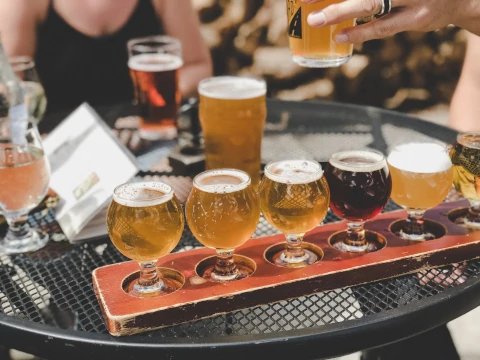
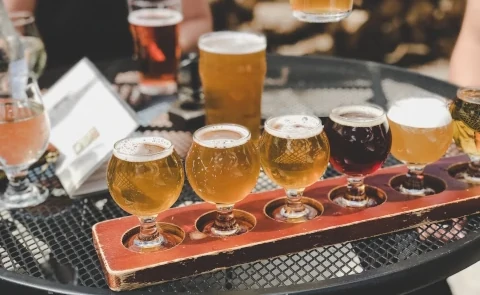
Updating photo for DoaP and adding credit.

diff --git a/src/blog/DeathOfAPhoenix.js b/src/blog/DeathOfAPhoenix.js
@@ -1,11 +1,12 @@
 import React from 'react'
+import { TatianaRodriguez } from '../components/unsplash/'
 import Typography from '@material-ui/core/Typography'
 import deathOfAPhoenix from './death-of-a-phoenix.webp'
 import deathOfAPhoenixBanner from './death-of-a-phoenix-banner.webp'
 
 const getContent = (classes) =>
   <React.Fragment>
-    <Typography paragraph><img className={ classes.blogImage } src={ deathOfAPhoenix } alt='Brewery Table'/>Dogfish Head has been one of the most influential breweries to hit the Craft Beer industry in the past twenty-five years. It has stood as a pillar of ingenuity, innovation and standing off-centered from a typical micro-brewery. And yet, almost one and a half years ago, this titan for freedom and creativity merged with the Boston Beer company, merging the two companies under one legal umbrella. Both breweries would stand separate, with each leveraging the other’s strengths: Dogfish for its innovation, Boston for its distribution; while also offsetting each other’s weaknesses. At least, that was the perception that was marketed by both companies.</Typography>
+    <Typography paragraph><div className={ classes.blogImage }><img src={ deathOfAPhoenix } alt='Brewery Table'/><TatianaRodriguez/></div>Dogfish Head has been one of the most influential breweries to hit the Craft Beer industry in the past twenty-five years. It has stood as a pillar of ingenuity, innovation and standing off-centered from a typical micro-brewery. And yet, almost one and a half years ago, this titan for freedom and creativity merged with the Boston Beer company, merging the two companies under one legal umbrella. Both breweries would stand separate, with each leveraging the other’s strengths: Dogfish for its innovation, Boston for its distribution; while also offsetting each other’s weaknesses. At least, that was the perception that was marketed by both companies.</Typography>
     <Typography paragraph>I’ve always been a huge fan of Dogfish Head ever since first trying their flagship 60 Minute Imperial Pale Ale (IPA). It wasn’t the first beer that I had ever tried, but it was one of the first IPAs that I truly enjoyed. Beer was still new to me, so it blew my uninitiated mind that a beer could be that flavorful. This was also way before I even knew the difference between a Cascade and a Centennial hop. I only slightly know the difference now. Alternatively, Sam Adams Boston Lager isn’t my first choice, but it is always a solid beer. I cannot say much about the rest of their line up as I am not as familiar with them, but I’ve never been steered wrong by any others that I have tried, like Rebel IPA.</Typography>
     <Typography paragraph>We live close enough to Dogfish Head’s location in Milton, DE that we can make a nice weekend trip out of the experience. Safe to say, we have been up there countless times to explore downtown Lewes, Milton, and Rehoboth on multiple occasions, each time, visiting and enjoying good beer, good food and good company all around. We have gotten to watch the evolution of the Brewing &amp; Eats Pub to the tri-tiered Chesapeake &amp; Maine, Beer Garden and Pub that it is today. We’ve watched the birth and success of the Dogfish Distillery line of spirits. The brewery itself has expanded dramatically since our first visits, adding multiple fermentation and bright tanks, crafting their own kitchen from Paul Bunyan’s Lunchbox Food Truck, all the while, remaining true to their beliefs and values. Family first, fun second, and success will follow. </Typography>
     <Typography paragraph>Our most recent trip to Lewes and Rehoboth was lackluster compared to the past. Granted, we are still in a pandemic, so with social distancing and reserved outdoor seating, the experience was due to be a bit different this time. No free samples with a free tour, no light-hearted excursions into the guts of the brewery itself, but still the same set of values did shine through from the staff: family first, community first. Additionally, the food was amazing as it always is. The roots from the original brew pub continue to shine through their amazing food.</Typography>
@@ -15,12 +16,12 @@ const getContent = (classes) =>
   </React.Fragment>
 
 export default {
-  title: 'Death of A Phoenix',
-  route: 'dogfish/death-of-a-phoenix',
+  title: 'Death of a Phoenix',
+  route: 'death-of-a-phoenix',
   author: 'Dustin Saunders',
   updated: '2020-11-06',
   content: getContent,
   banner: deathOfAPhoenixBanner,
-  seo: 'Thoughtful Brew Article: Death Of A Phoenix: Dogfish Head',
+  seo: 'Thoughtful Brew Article: Death Of a Phoenix',
 }
 

diff --git a/src/components/MainContentWrapper.js b/src/components/MainContentWrapper.js
@@ -2,10 +2,10 @@ import Button from '@material-ui/core/Button'
 import Grid from '@material-ui/core/Grid'
 import Hidden from '@material-ui/core/Hidden'
 import { makeStyles } from '@material-ui/core/styles'
+import { MarkusSpiske } from '../components/unsplash/'
 import Paper from '@material-ui/core/Paper'
 import React from 'react'
 import Typography from '@material-ui/core/Typography'
-import UnsplashCredit from '../components/UnsplashCredit'
 import { useHistory } from 'react-router-dom'
 import { useSelector } from 'react-redux'
 
@@ -56,7 +56,7 @@ export default (props) => {
       </Grid>
       <Hidden smDown>
         <Grid item sm={12} md={10} className={ classes.gridItem }>
-          <UnsplashCredit/>
+          <MarkusSpiske/>
         </Grid>
       </Hidden>
     </Grid>

diff --git a/src/components/unsplash/UnsplashCredit.js b/src/components/unsplash/UnsplashCredit.js
@@ -1,0 +1,20 @@
+import Link from '@material-ui/core/Link'
+import React from 'react'
+import Typography from '@material-ui/core/Typography'
+
+const UnsplashCredit = (props) => {
+  const { author, authorUrl, color, siteUrl, } = props;
+  return (
+    <Typography color={ color }>
+      Photo by <Link color='inherit' href={ authorUrl }>{ author }</Link> on <Link color='inherit' href={ siteUrl }>Unsplash</Link>
+    </Typography>
+  )
+}
+
+UnsplashCredit.defaultProps = {
+  author: '...',
+  authorUrl: 'https://unsplash.com',
+  siteUrl: 'https://unsplash.com',
+  color: 'inherit',
+}
+export default UnsplashCredit 

diff --git a/src/components/unsplash/TatianaRodriguez.js b/src/components/unsplash/TatianaRodriguez.js
@@ -1,0 +1,9 @@
+import React from 'react'
+import { UnsplashCredit } from './'
+
+const author = 'Tatiana Rodriguez'
+const authorUrl = 'https://unsplash.com/@tata186?utm_source=unsplash&utm_medium=referral&utm_content=creditCopyText'
+const siteUrl = 'https://unsplash.com/s/photos/beer?utm_source=unsplash&utm_medium=referral&utm_content=creditCopyText'
+
+export default () => <UnsplashCredit author={ author } authorUrl={ authorUrl } color='textSecondary' siteUrl={ siteUrl }/>
+

diff --git a/src/components/unsplash/MarkusSpiske.js b/src/components/unsplash/MarkusSpiske.js
@@ -1,0 +1,9 @@
+import React from 'react'
+import { UnsplashCredit } from './'
+
+const author = 'Markus Spiske'
+const authorUrl = 'https://unsplash.com/@markusspiske?utm_source=unsplash&utm_medium=referral&utm_content=creditCopyText'
+const siteUrl = 'https://unsplash.com/s/photos/hops?utm_source=unsplash&utm_medium=referral&utm_content=creditCopyText'
+
+export default () => <UnsplashCredit author={ author } authorUrl={ authorUrl } siteUrl={ siteUrl }/>
+

diff --git a/src/components/BlogArticle.js b/src/components/BlogArticle.js
@@ -31,6 +31,7 @@ const useStyles = makeStyles(theme => ({
     },
     [theme.breakpoints.down('sm')]: {
       padding: 0,
+      paddingBottom: theme.spacing(2),
       width: '90%',
       height: '90%',
       float: 'none',

diff --git a/src/components/unsplash/index.js b/src/components/unsplash/index.js
@@ -1,0 +1,9 @@
+import MarkusSpiske from './MarkusSpiske'
+import TatianaRodriguez from './TatianaRodriguez'
+import UnsplashCredit from './UnsplashCredit'
+
+export {
+  MarkusSpiske,
+  TatianaRodriguez,
+  UnsplashCredit,
+}
